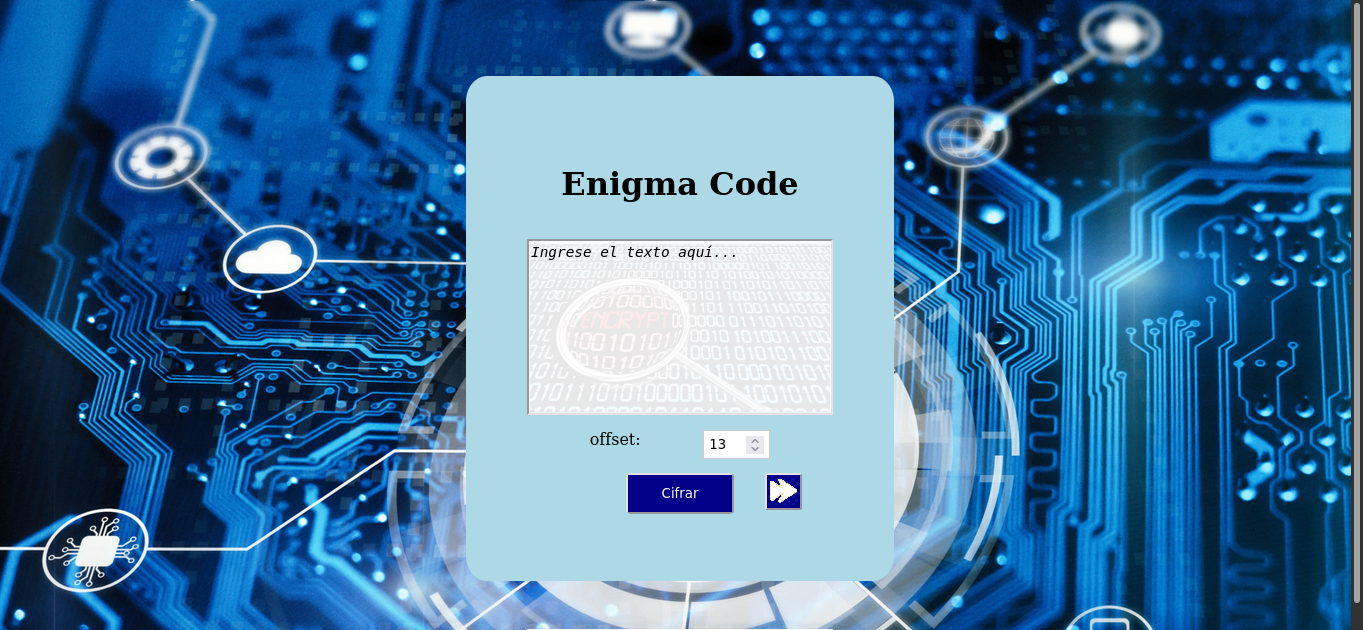
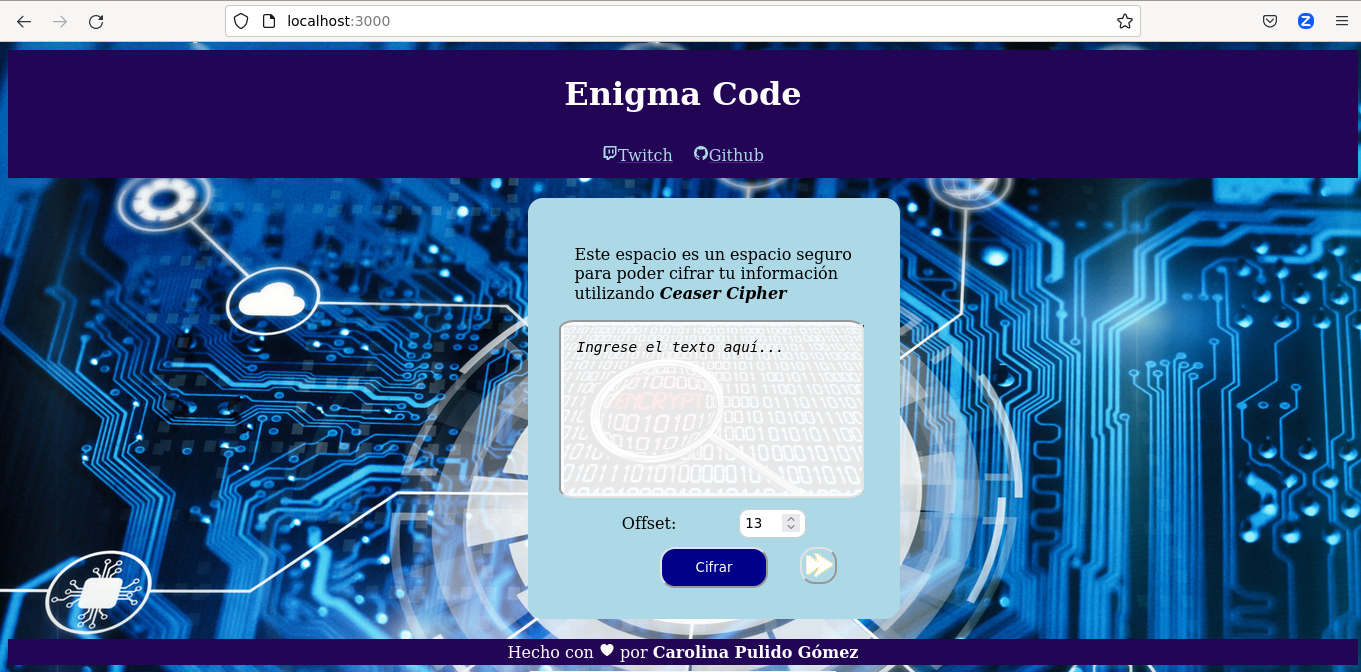
Edición de README y pequeños cambios de css

diff --git a/src/style.css b/src/style.css
@@ -62,6 +62,10 @@ p{
     /*align-content: flex-start;*/
 }
 
+a ion-icon,span{
+    color: lightblue;
+}
+
 /**Selectores de clase*/
 .box{
     display: flex;
@@ -132,7 +136,7 @@ button[name="adelante"]{
 input[type="number"]{
     border: 1px solid #ccc;
     padding: 5px;
-    border-radius: 5%;
+    border-radius: 10px;
 }
 
 button:hover{
@@ -143,4 +147,8 @@ button:hover{
 
 input[type="number"]:focus {
     background-color: #f9f9f9;
+}
+
+section div[name="offset"]{
+    align-items: center;
 }

diff --git a/src/index.html b/src/index.html
@@ -28,7 +28,7 @@
             <textarea id="msg"></textarea>
           </section>
           <section>
-            <div class="container">
+            <div class="container" name="offset">
               <label>Offset: </label>
               <input type="number" id="offset" min="1" max="1000" step="1" value="13" size="4">
             </div>

diff --git a/README.md b/README.md
@@ -1,38 +1,27 @@
 # Cifrado César
 
-## Índice
+## 1. ¿Qué hace el proyecto?
+El proyecto permite que el usuario ingrese un texto, escoga un valor de offset (entero mayor que 0) y con estos dos datos te muestre por pantalla el texto cifrado.
+Además, te permite también realizar el proceso inverso, es decir, con un texto cifrado y un valor de offset te permite oberter el texto descifrado.
 
-* [1. Contexto del proyecto](#1-contexto)
-* [2. Experiencia de Usuario e Interfaz](#2-experiencia-de-usuario-e-interfaz)
-* [3. Requerimientos Funcionales y No Funcionales](#3-requerimientos-funcionales-y-no-funcionales)
-* [4. Hitos Opcionales](#4-hitos-opcionales)
-* [5. Para considerar Project Feedback](#5-para-considerar-project-feedback)
-
-***
-
-## 1. Contexto
-
-Hoy en día tenemos muchas cuentas en diversas aplicaciones y es fácil olvidar las
-contraseñas de ingreso. Por tanto, un servicio importante es poder cifrar y descifrar
-tus contraseñas de tal manera que puedas cifrar tu contraseña y guardarla tranquilamente 
-en un fichero con extensión *.txt* sin riesgo de ser descifrada por alguna persona que 
-no cuente con acceso al número de offset que utilizaste para cifrarla.
-
+### 1.1. ¿Qué es cifrar y descifrar?
 Cifrar significa ocultar el contenido de un mensaje a simple vista, de manera
 que sólo las partes autorizadas pueden descifrar un texto cifrado.
 El [cifrado César](https://en.wikipedia.org/wiki/Caesar_cipher)
 es uno de los primeros métodos de cifrado conocidos. El emperador romano Julio
 César lo usaba para enviar órdenes secretas a sus generales en los campos de
-batalla.
-
-![caeser-cipher](https://upload.wikimedia.org/wikipedia/commons/thumb/2/2b/Caesar3.svg/2000px-Caesar3.svg.png)
-
-
-El cifrado césar es una de las técnicas más simples para cifrar un mensaje. Es
+batalla. Es una de las técnicas más simples para cifrar un mensaje. Es
 un tipo de cifrado por sustitución, es decir que cada letra del texto original
 es reemplazada por otra que se encuentra un número fijo de posiciones
 (desplazamiento) más adelante en el mismo alfabeto.
 
+<img src="https://upload.wikimedia.org/wikipedia/commons/thumb/2/2b/Caesar3.svg/2000px-Caesar3.svg.png" width="50%">
+
+El proceso de descifrar hace el proceso inverso, es decir que cada letra del texto cifrado
+es reemplazada por otra que se encuentra un número fijo de posiciones
+(desplazamiento) más atrás en el mismo alfabeto. En conclusión, para este tipo de cifrado, 
+cifrar es desplazar hacia la derecha un número fijo de posiciones y descifrar es desplazar 
+hacia la izquierda un número fijo de posiciones.
 
 Por ejemplo, si usamos un desplazamiento (_offset_) de 3 posiciones:
 
@@ -47,27 +36,52 @@ comunicación por sí mismos; el cifrado César sí puede formar parte de sistem
 más complejos de codificación, como el cifrado Vigenère, e incluso tiene
 aplicación en el sistema ROT13.
 
-#### ¿A quién va dirigido?
 
-A todas las personas que cuenten con acceso a redes sociales, correo electrónico, 
-plataformas educativas, registros empresariales, y demás aplicaciones o servidores
-en los que se requiera un *login*.
+## 2. ¿Por qué el proyecto es útil?
 
-En este proyecto se tiene una aplicación web que servirá para que tu usuaria
-pueda cifrar y descifrar un texto en el navegador indicando un desplazamiento
-específico de caracteres (_offset_). De esta manera desde adolescentes hasta 
-personas de la tercera edad se benefician con este servicio porque ya pueden 
-copiar el texto cifrado y pegarlo en un documento para mayor seguridad y sin riesgo
-a olvidar las contraseñas.
+En ocasiones la seguridad de nuestras contraseñas hace que sea fácil para personas 
+inescrupulosas robar, capturar o clonar nuestra información sencible de las cuentas
+de nuestras aplicaciones. Por eso, tener una aplicación de cifrado te permite mejorar 
+la seguridad y mantener segura tu información.
 
-## 2. Experiencia de Usuario e Interfaz
+## 3. ¿Cómo pueden comenzar los usuarios con el proyecto?
 
-### 2.1 Comportamiento esperado
+### 3.1 Parte técnica
 
-La estructura general de la primera vista que ve el usuario es la siguiente:
-![Bosquejo de ventana inicial](src/img/flujo_bosquejo/paso1.png)
+Teniendo nodejs y git instalados en el PC, se debe clonar el proyecto y dentro del directorio
+del proyecto ejecutar el comando `npm install`. Esta instalación se realiza sólo la primera vez,
+después de clonar el proyecto. 
 
-#### 2.1.1 Historia 1: Poder escoger si codificar o decodificar
+Luego de esto, cada vez que se quiera utilizar la aplicación se debe lanzar el servidor local
+con el comando `npm start`, donde podrás ver un mensaje que te indica la direcicón que debes 
+ingresar en el navegador `https://localhost:3000`
+
+Con esto, podrás ver la primera vista o vista principal de la aplicación en tu navegador.
+
+![Vista inicial](src/img/flujo_aplicacion/paso0.png)
+
+## 4. Proceso de diseño del producto final
+
+### 4.0 Organizar el flujo de trabajo y responsabilidades
+
+Para organizar las tareas y los tiempos creé un tablero de Trello para el proyecto: [Cipher in Trello](https://trello.com/invite/b/96ys0Mn4/ATTI6b8d992774ca310bcd278605f1ebe2214CA3BB25/project-1-cipher).
+Ahí definí el backlog del proyecto y el backlog del sprint. 
+
+
+### 4.1 Determinar el flujo de interacciones en la aplicación
+
+Para esto primero hice un bosquejo de baja fidelidad sobre la estructura inicial que quería ver
+de la aplicación utilizando una [presentacion en drive](https://docs.google.com/presentation/d/1uge05RRMRmjqU7F6gilxUjw2hsOjjQ-lOqrP8ThQDJc/edit?usp=sharing).
+
+![vista inicial bosquejo](src/img/flujo_bosquejo/paso0.png)
+
+Luego de tener definidos los elementos de mi vista, procedí a hacer el [diagrama de flujo](src/Diagrama%20de%20Flujo.pdf) que indicara la interacción del usuario con los elementos de la vista.
+
+<img src="src/diagramaFlujo.png">
+
+Luego intentar definir las historias de usurio que se requieren:
+
+#### 4.1.1 Historia 1: Poder escoger si codificar o decodificar
 
 Para esto se navega entre las opciones con los botones en forma de flecha
 que se ubican a cada lado del botón encargado de **Cifrar** o **Descifrar** el 
@@ -84,7 +98,7 @@ Al hacer click en la flecha que apunta hacia la izquierda vuelve a la vista prin
 ![Bosquejo de ventana inicial](src/img/flujo_bosquejo/paso1.png)
 
 
-#### 2.1.2 Historia 2: Poder codificar un texto
+#### 4.1.2 Historia 2: Poder codificar un texto
 
 El texto que se quiere codificar debe ser escrito en el recuadro donde dice: *Ingrese el texto aquí...*. En esta parte por 
 defecto siempre el offset es igual a 13, pero el usuario tiene la posibilidad de cambiarlo. Las restricciones del texto 
@@ -102,7 +116,7 @@ teclado es reemplazado con el nuevo texto cifrado y nos lleva a la vista donde l
 ![Paso 5](src/img/flujo_bosquejo/paso5.png)
 
 
-#### 2.1.3 Historia 3: Poder decodificar un texto
+#### 4.1.3 Historia 3: Poder decodificar un texto
 
 Para decodificar un texto cifrado desde la pantalla principal se debe hacer click sobre la flecha que apunta hacia la derecha
 para ingresar el texto a descifrar.
@@ -115,13 +129,13 @@ Una vez ingresado el texto que se quiere decodificar se da click sobre el botón
 ![Paso 6](src/img/flujo_bosquejo/paso6.png)
 
 
-#### 2.1.4 Historia 4: Poder escoger un valor de offset para la Codificación
+#### 4.1.4 Historia 4: Poder escoger un valor de offset para la Codificación
 
 Para este caso y continuando con el ejemplo anterior de *LAROSADEGUADALUPE*, se ingresó un valor de offset de *5*. Luego se procede a dar click sobre el botón *Cifrar* y se obtiene el resultado esperado.
 ![Paso 7](src/img/flujo_bosquejo/paso7.png)
 ![Paso 8](src/img/flujo_bosquejo/paso8.png)
 
-#### 2.1.5 Historia 5: Poder escoger un valor de offset para la Decodificación
+#### 4.1.5 Historia 5: Poder escoger un valor de offset para la Decodificación
 
 Utilizando el texto generado en la historia 4, nuevamente se va a cambiar el valor del offset por 13; de tal manera que, 
 al hacer click sobre el botón con la funcionalidad **Descifrar** nos muetra la vista inicial donde el texto a descifrar es
@@ -131,17 +145,11 @@ reemplazado por el texto decodificado. Sin embargo, en este caso como el valor d
 
 ![Paso 9](src/img/flujo_bosquejo/paso9.png)
 
-#### 2.1.6 Historia 6: El usuario ingresa un texto inválido
-
-Para este caso la aplicación verifica el texto ingresado y muestra una alerta indicándole al usuario que el texto ingresado 
-contiene caracteres no permitidos o es inválido.
-
-#### 2.1.5 Historia 7: El usuario ingresa un valor de offset negativo o inválido
+#### 4.1.6 Historia 6: El usuario ingresa un valor de offset negativo o inválido
 
 De igual manera que en la historia 6, se muestra una alerta indicándole al usuario que el valor ingresado no es un nùmero entero mayor que 0 o es un valor inválido.
 
-
-## 3. Requerimientos Funcionales y No Funcionales
+### 4.2 Revisión de Cumplimiento de los Requermientos Funcionales y No Funcionales
 
 **1. Una interfaz que debe permitir a la usuaria:**
 
@@ -166,9 +174,13 @@ De igual manera que en la historia 6, se muestra una alerta indicándole al usua
 Los metódos de `cipher` (`encode` y `decode`) deben tener cobertura con
 pruebas unitarias.
 
+![Test de Pruebas unitarias](src/img/runTest.png)
+
 **3. Código de tu proyecto subido a tu repo y interfaz "desplegada".**  
 El código final debe estar subido en un repositorio en GitHub.  
 La interfaz o pagina web, debe ser "desplegada" usando GitHub Pages.
+
+![Github pages](src/img/githubPages.png)
 
 **4. Un README que contiene una definición del producto.**  
 En el README cuéntanos cómo pensaste en los usuarios y cuál fue tu proceso
@@ -179,16 +191,8 @@ preguntas sirven como guia:
 * Cuáles son los objetivos de estos usuarios en relación con tu producto
 * Cómo crees que el producto que estás creando está resolviendo sus problemas
 
-## 4. Hitos Opcionales: 
 
-*1. Agrega soporte para ñ, minúsculas, números y otros caracteres*
-
-*2. Permitir cargar ficheros con extensión **.txt** para descifrar su contenido*  
-
-*3. Permitir escribir un fichero con extensión **.txt** para guardar el texto cifrado*  
-
-
-## 5. Para considerar Project Feedback
+### 5. Para considerar Project Feedback
 
 En resumen, los criterios de aceptación mínimos del proyecto para considerar
 Project Feedback:
@@ -202,10 +206,19 @@ Project Feedback:
 * [ ] El README contiene una definición del producto.
 
 
-## 6. Documentación y Herramientas adicionales utilizadas
+### 6. Documentación y Herramientas adicionales utilizadas
 
 * Se creó un tablero de [Project 1 - Cipher in Trello](https://trello.com/invite/b/96ys0Mn4/ATTI6b8d992774ca310bcd278605f1ebe2214CA3BB25/project-1-cipher) para adminsitrar y definir el *backlog* del proyecto y del *Sprint 1*. 
 * Se utilizó [Gimp](https://www.gimp.org/) y *Power Point* para realizar y detallar las imágenes presentadas.
 * Se utilizó una [IA](https://you.com) para preguntar y resolver dudas conceptuales sobre temas de los OA's del proyecto.
 * Se utilizó [Stack Over Flow](https://es.stackoverflow.com/) para consultar inconvenientes puntuales y entender cómo solucionarlos.
 * Diagrama de flujo realizado en [Figma](https://www.figma.com/file/Pmr8XnhtL6ELkBE6jxxwLK/Untitled?type=whiteboard&node-id=0%3A1&t=VByZsGsaOp94pb3C-1)
+* Presentaciones de la suite de Google para realizar el bosquejo de baja fidelidad y agregar animaciones
+a la presentación para simular la interacción
+* Github para almacenar el repositorio con el proyecto.
+* Nodeja y Git.
+
+### 7. Desarrolladora
+
+Carolina Rosa Pulido Gómez: Desarrolladora Web en formación gracias a la experiencia de Aprendizaje de 
+(Laboratoria)[https://www.laboratoria.la/]
